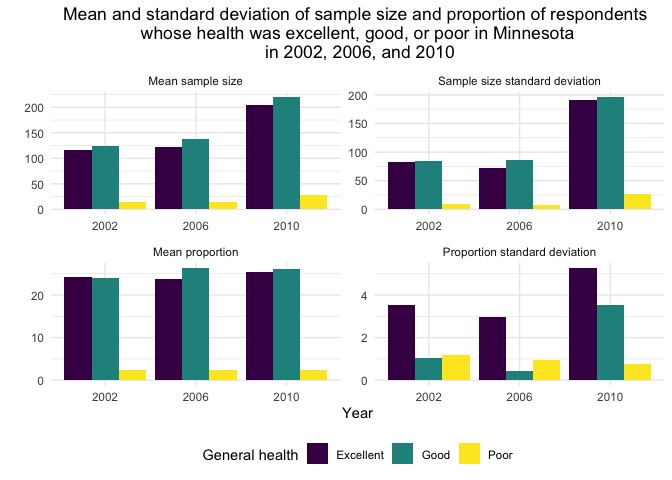
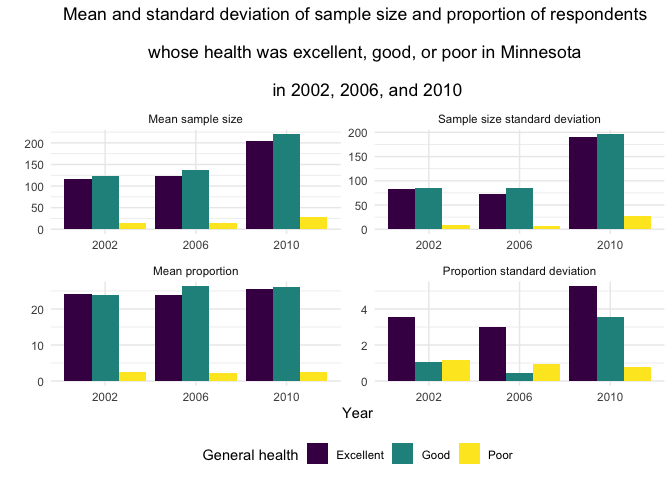
Homework 2

diff --git a/pubh7462_hw2_elger005.md b/pubh7462_hw2_elger005.md
@@ -61,6 +61,7 @@ df <- brfss.clean %>%
   summarise(no_rows = length(state)) %>% # count locations in each state
   filter(no_rows == 6) # select only those with 6 locations
 
+# create table
 table1 <- df %>%
   gt() %>%
   tab_header("States observed at 6 locations in 2004") %>%
@@ -72,6 +73,7 @@ table1 <- df %>%
     table.font.size = "xx-small"
   )
 
+# save table image
 gtsave(table1, "table1.png")
 ```
 
@@ -87,18 +89,19 @@ df <- brfss.clean %>%
   complete(state) # make sure that no states are completely missing a year
 
 # change nas for states with no observation that year to 0 for better plotting and summary statistics
-df$no_rows[is.na(df$no_rows)] <- 0 
+df$no_rows[is.na(df$no_rows)] <- 0
 
 # create a column with mean # of locations by state for plotting
 df <- df %>%
   group_by(state) %>%
   mutate(mean_loc = mean(no_rows))
 
-#spaghetti plot
+# spaghetti plot
 df %>%
   ggplot(aes(year, no_rows)) +
   geom_line(aes(group = state, color = fct_reorder(state, mean_loc, .desc = TRUE)), # order states from highest to lowest mean # of locations
-            size = 1, alpha = 0.5) +
+    size = 1, alpha = 0.5
+  ) +
   theme_minimal() +
   labs(
     x = "Year",
@@ -107,9 +110,11 @@ df %>%
        in each state from 2002 - 2010",
     caption = "*States listed from highest to lowest mean number of locations"
   ) +
-  scale_color_viridis_d(name = "State*") + 
-  theme(legend.position = "bottom",
-        legend.key.height = unit(0.3, 'cm'))
+  scale_color_viridis_d(name = "State*") +
+  theme(
+    legend.position = "bottom",
+    legend.key.height = unit(0.3, "cm")
+  )
 ```
 
 <img src="pubh7462_hw2_elger005_files/figure-gfm/unnamed-chunk-4-1.png" style="display: block; margin: auto;" />
@@ -122,12 +127,12 @@ df2 <- df %>%
   summarise(mean = mean(no_rows)) %>% # get mean number of locations by state
   slice_max(mean, n = 1) # select the location with the highest mean
 
-#create the table showing the highest mean number of locations
+# create the table showing the highest mean number of locations
 table2 <- df2 %>%
   gt() %>%
   fmt_number(
     columns = mean,
-    decimals = 2  # only 2 decimal points
+    decimals = 2 # only 2 decimal points
   ) %>%
   tab_header("State with the highest mean number of locations
              from 2002 - 2010") %>%
@@ -135,13 +140,13 @@ table2 <- df2 %>%
     state = "State",
     mean = "Mean number of locations"
   ) %>%
-    tab_options(
+  tab_options(
     container.width = pct(30),
     container.height = pct(30),
     table.font.size = "xx-small"
   )
 
-
+# save table image
 gtsave(table2, "table2.png")
 ```
 
@@ -158,20 +163,24 @@ df <- brfss.clean %>%
   summarise(
     across(
       contains(c("sample_size", "data_value")),
-      list(mean = mean, sd = sd), na.rm = TRUE,
+      list(mean = mean, sd = sd),
+      na.rm = TRUE,
       .names = "{.col}_{.fn}"
-    )) %>%
+    )
+  ) %>%
   ungroup() %>%
   group_by(year)
 
 # Create table
 table3 <- df %>%
   gt() %>%
-    fmt_number(
+  fmt_number(
     columns = c(3:6),
     decimals = 2 # only 2 decimals
   ) %>%
-  tab_header("Mean and standard deviation of sample size and proportion of respondents whose health was excellent, good, or poor in Minnesota in 2002, 2006, and 2010") %>%
+  tab_header("Mean and standard deviation of sample size and proportion of respondents 
+             whose health was excellent, good, or poor in Minnesota 
+             in 2002, 2006, and 2010") %>%
   cols_label(
     response = " ",
     sample_size_mean = "Sample size mean",
@@ -180,6 +189,7 @@ table3 <- df %>%
     data_value_sd = "Proportion SD"
   )
 
+# save table image
 gtsave(table3, "table3.png")
 ```
 
@@ -218,7 +228,9 @@ df2 %>%
   geom_col(position = "dodge") +
   theme_minimal() +
   labs(
-    title = "Mean and standard deviation of sample size and proportion of respondents \n whose health was excellent, good, or poor in Minnesota \n in 2002, 2006, and 2010",
+    title = "Mean and standard deviation of sample size and proportion of respondents \n
+    whose health was excellent, good, or poor in Minnesota \n 
+    in 2002, 2006, and 2010",
     x = "Year",
     y = " "
   ) +
